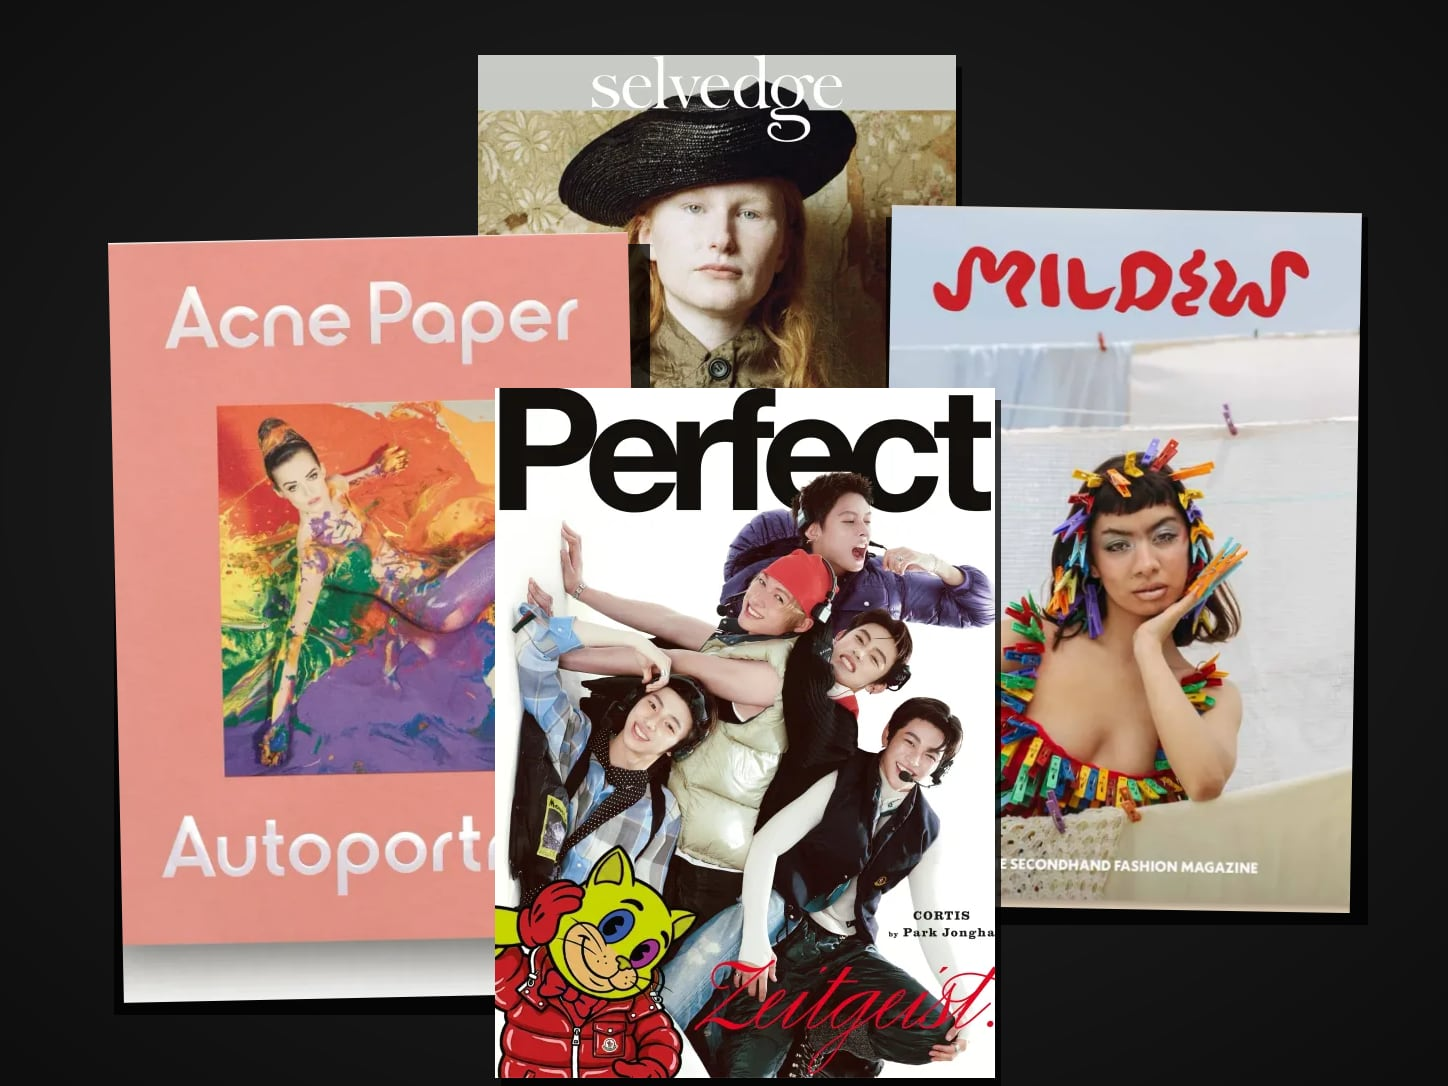
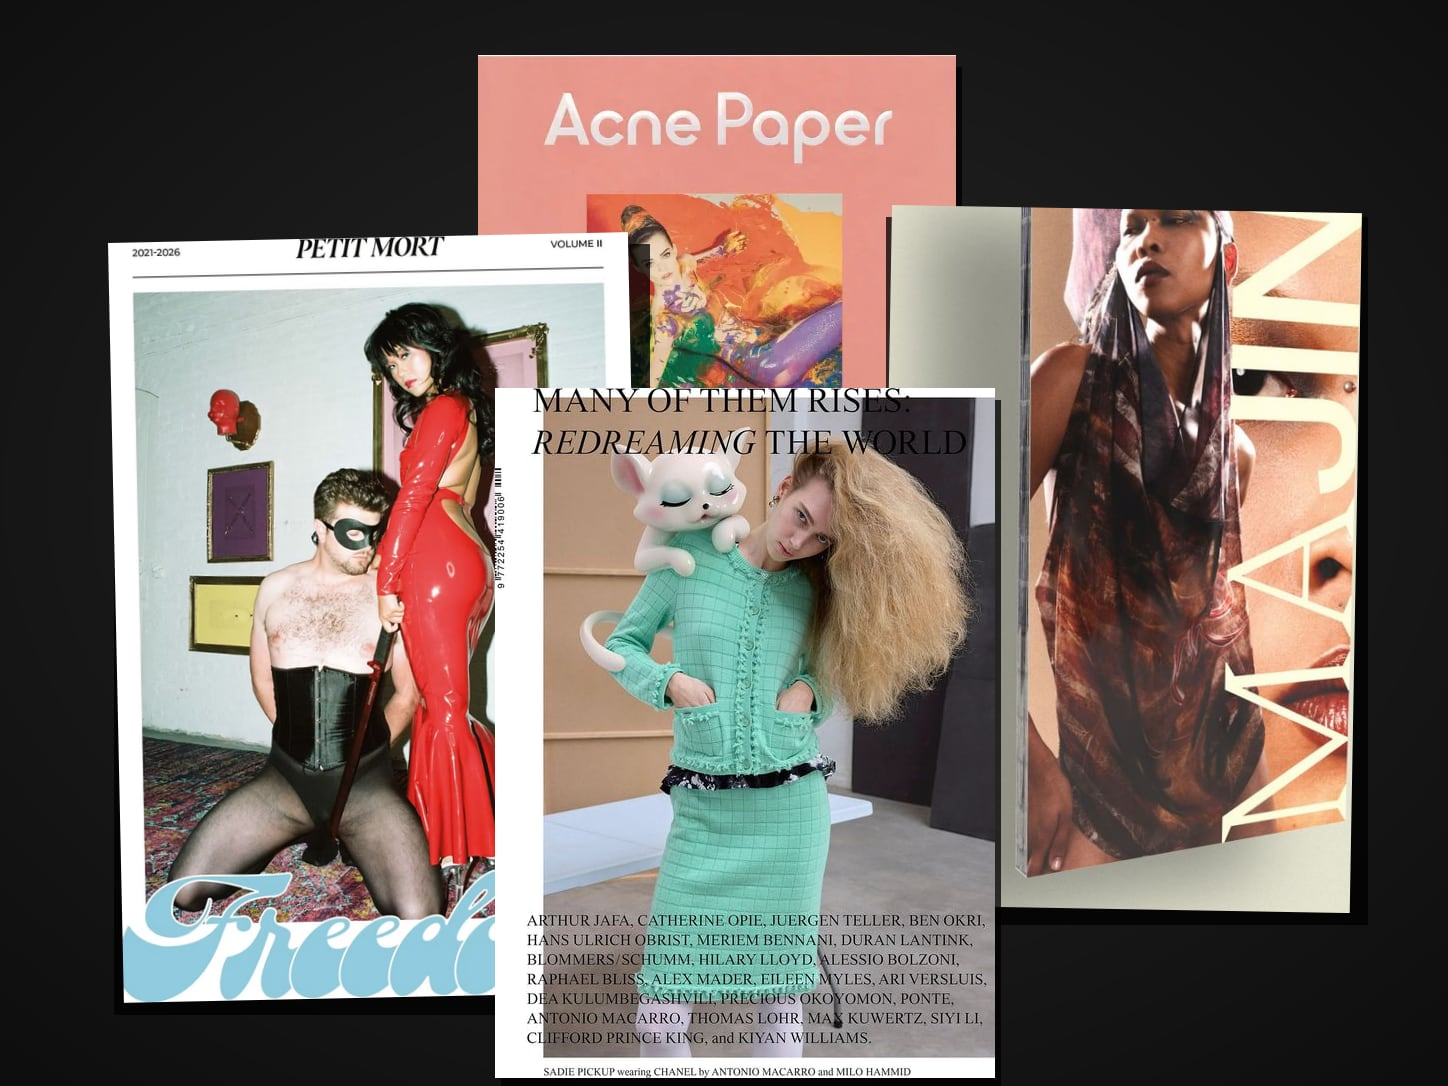
Fitting Room: glossier representative lineup
Swap in Petit Mort, Fay, MANY OF THEM, Majin, ALL-IN and Acne Paper
alongside Wardrobe Theory Project and Viscose. Mildew and the earlier
picks drop out. The listed titles are representative; packs ship these
or titles like them. Rebuild the pack image from the new covers.

Claude-Session: https://claude.ai/code/session_014yKBgTu8BG1Gb5QbTGC8BK

diff --git a/src/lib/packs.ts b/src/lib/packs.ts
@@ -66,22 +66,21 @@ export const PACKS: Pack[] = [
     price: 200,
     blurb:
       "Cloth, cut, closets, and the people who live in them. Print that tells a customer they're in the right shop before they touch a hanger.",
-    count: '9 titles',
-    retail: '$249.00',
+    count: '8 titles',
+    retail: '$269.10',
     image: '/assets/pack-fitting-room.jpg',
     // TODO(stripe): replace with the Fitting Room $200 and $300 Payment Links.
     order: PENDING_ORDER('The Fitting Room'),
     withStand: PENDING_ORDER('The Fitting Room, with stand'),
     contents: [
+      { title: 'MANY OF THEM', slug: 'many-of-them' },
+      { title: 'Petit Mort', slug: 'petit-mort' },
+      { title: 'Majin', slug: 'majin-magazine' },
       { title: 'Wardrobe Theory Project', slug: 'wardrobe-theory-project' },
-      { title: 'Perfect', slug: 'perfect' },
+      { title: 'Fay', slug: 'fay' },
       { title: 'Viscose Journal', slug: 'viscose-journal' },
+      { title: 'ALL–IN', slug: 'allin-magazine' },
       { title: 'Acne Paper', slug: 'acne-paper' },
-      { title: 'Twin', slug: 'twin' },
-      { title: 'TOO MUCH', slug: 'too-much' },
-      { title: 'Selvedge', slug: 'selvedge' },
-      { title: 'Mildew', slug: 'mildew' },
-      { title: 'The Skirt Chronicles', slug: 'the-skirt-chronicles' },
     ],
   },
   {
